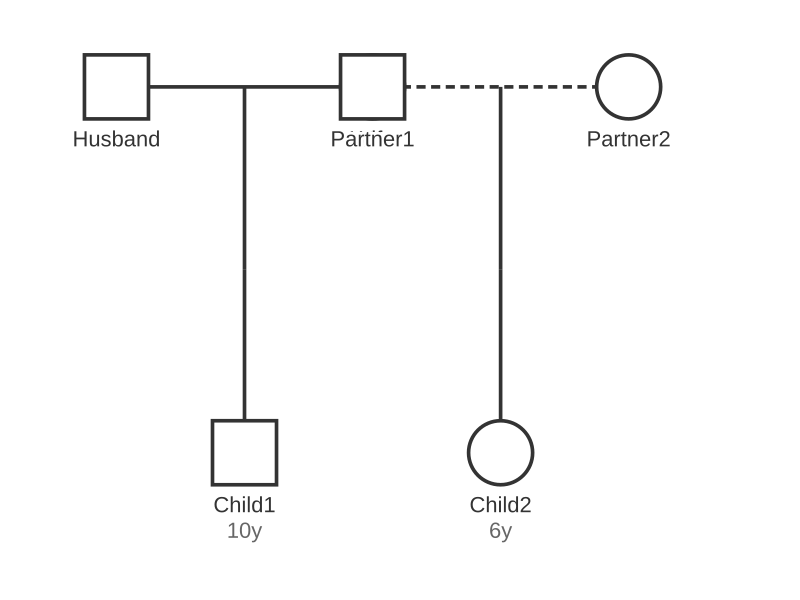
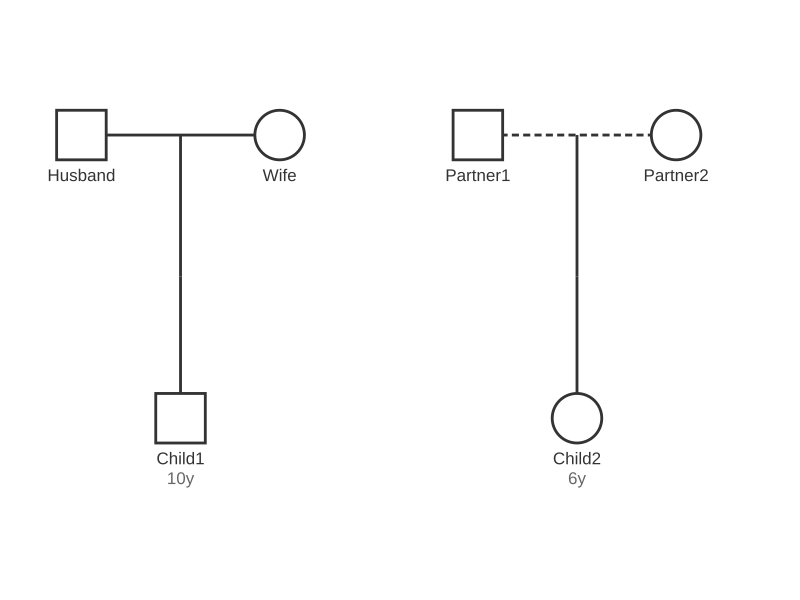
fix: center children below their parents' partnership
- Group children by partnership when positioning in bottom generation
- Add extra spacing between different family groups (2x minNodeSpacing)
- Children are now centered as a group below their parents' partnership line
- Fixes Child2 positioning in scenario 08 (was offset 140px, now centered)

Tests: 148/155 passing - Child2 centering test now passes

Changed region(s): [[0.0625, 0.09, 0.875, 0.9], [0.5938, 0.78, 0.6562, 0.9], [0.5625, 0.72, 0.5938, 0.78]]

diff --git a/src/renderer/pedigree-renderer.ts b/src/renderer/pedigree-renderer.ts
@@ -497,7 +497,33 @@ export class PedigreeRenderer {
                 positioned.add(p2.name);
             }
 
-            // Phase 4: Position remaining individuals (left-to-right)
+            // Phase 4: Position children of partnerships (grouped by partnership)
+            // Process children in partnership order to keep family units together
+            for (const partnership of this.partnerships) {
+                const childrenInThisGen = partnership.children.filter(c => {
+                    const child = this.individuals.get(c);
+                    return child && individuals.includes(child) && !positioned.has(c);
+                });
+
+                if (childrenInThisGen.length > 0) {
+                    // Position children left-to-right, centered as a group
+                    const groupWidth = (childrenInThisGen.length - 1) * minNodeSpacing;
+                    const groupStartX = currentX;
+
+                    for (let i = 0; i < childrenInThisGen.length; i++) {
+                        const childName = childrenInThisGen[i];
+                        const child = this.individuals.get(childName)!;
+                        const childX = groupStartX + i * minNodeSpacing;
+                        this.nodePositions.set(childName, { individual: child, x: childX, y, generation: gen });
+                        positioned.add(childName);
+                    }
+
+                    // Move currentX past this family group + extra spacing for next partnership
+                    currentX = groupStartX + groupWidth + minNodeSpacing * 2;
+                }
+            }
+
+            // Phase 5: Position remaining individuals (left-to-right)
             for (const ind of individuals) {
                 if (positioned.has(ind.name)) continue;
 

diff --git a/tests/pedigree-renderer.test.ts b/tests/pedigree-renderer.test.ts
@@ -2945,6 +2945,14 @@ describe('PedigreeRenderer', () => {
             const wifePos = renderer.nodePositions.get('Wife');
             const partner1Pos = renderer.nodePositions.get('Partner1');
             expect(Math.abs(wifePos.x - partner1Pos.x)).toBeGreaterThanOrEqual(70); // minNodeSpacing
+
+            // CRITICAL: Child2 should be centered below Partner1-Partner2 partnership
+            const partner2Pos = renderer.nodePositions.get('Partner2');
+            const child2Pos = renderer.nodePositions.get('Child2');
+            const partnershipMidX = (partner1Pos.x + partner2Pos.x) / 2;
+
+            // Child2 X should be at partnership midpoint (tolerance: 1px)
+            expect(Math.abs(child2Pos.x - partnershipMidX)).toBeLessThan(1);
         });
     });
 });
